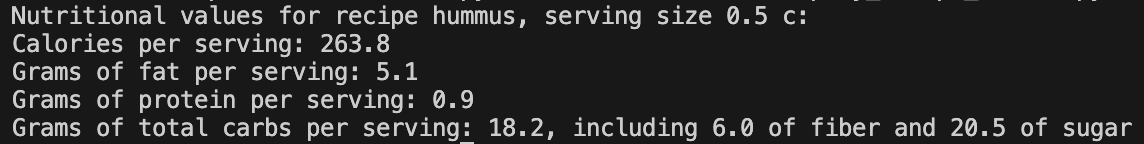
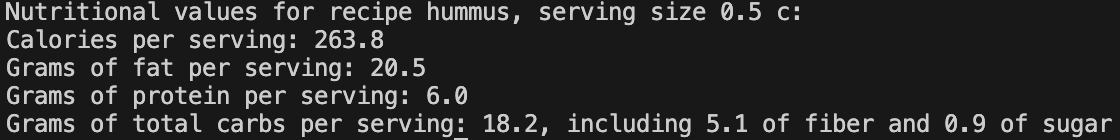
Bug fix by introducing dicts, should do this in dbcommons

diff --git a/src/forkwise/fork_db.py b/src/forkwise/fork_db.py
@@ -327,11 +327,21 @@ class ForkDB(DBConn):
         --------
         Recipe dataclass
         """
-        
-        recipe_tuple = self.execute_query("SELECT id, servings, servings_amt, servings_units FROM recipes WHERE name=%s;", (recipe_name,))
+
+        # TODO have execute_query in dbcommons return column names - return a dict rather than the raw tuple.
+        # column_names = [desc[0] for desc in cursor.description] # have not tested this
+        recipe_dict_keys = ['id','servings','servings_amt', 'servings_units']
+        recipe_cols = ", ".join(recipe_dict_keys)
+        recipe_tuple = self.execute_query(f"SELECT {recipe_cols} FROM recipes WHERE name=%s;", (recipe_name,))
         if len(recipe_tuple)==0:
-            self._logger.error(f"Recipe {recipe_name} does not exist")
-            raise ValueError(f"Recipe {recipe_name} does not exist")
+            msg = f"Recipe {recipe_name} does not exist"
+            self._logger.error(msg)
+            raise ValueError(msg)
+        elif len(recipe_tuple) > 1:
+            msg = f"Query to get recipe id from name returned multiple rows, something is wrong!"
+            self._logger.error(msg)
+            raise ValueError(msg)
+        recipe_dict = dict(zip(recipe_dict_keys,recipe_tuple[0]))
         
         # I eventually abandoned this approach but saving the COALESE for future reference:
         # query=f"""
@@ -369,12 +379,14 @@ class ForkDB(DBConn):
         # WHERE i.recipe_id=1;
 
         ingr_cols = [f.name for f in fields(PantryItem) if f.name not in ["props"]] + [f.name for f in fields(FoodProps)]
-        select_statements = ", ".join(f'SUM(i.ingredient_amt * (p.{c} / p.unitary_amt) * (iu.factor / pu.factor))  AS total_{c}' for c in ingr_cols if c not in {'name','unitary_amt','units','white_flour','animal'})
+        totals_dict_keys = [c for c in ingr_cols if c not in {'name','unitary_amt','units'}]
+        totals_dict_keys.append('count')
+        select_statements = ", ".join(f'SUM(i.ingredient_amt * (p.{c} / p.unitary_amt) * (iu.factor / pu.factor))  AS total_{c}' for c in totals_dict_keys if c not in {'white_flour','animal', 'count'})
 
         query=f"""
             SELECT {select_statements},
-                SUM(p.white_flour::int) AS white_flour,
                 SUM(p.animal::int) AS animal,
+                SUM(p.white_flour::int) AS white_flour,
                 COUNT(*)
             FROM pantry_items AS p
             INNER JOIN unit_conversions AS pu ON 
@@ -387,7 +399,13 @@ class ForkDB(DBConn):
             WHERE i.recipe_id=%s;
             """
 
-        totals = self.execute_query(query,(recipe_tuple[0][0],))
+        totals_tuple = self.execute_query(query,(recipe_dict['id'],))
+        if len(totals_tuple) != 1:
+            msg = f"Query to get recipe totals from recipe {recipe_name} returned multiple rows, something is wrong!"
+            self._logger.error(msg)
+            raise ValueError(msg)
+        totals_dict = dict(zip(totals_dict_keys,totals_tuple[0]))
+        
 
         # Check that all units matched for conversions - otherwise the return from COUNT won't match
         # the number of ingredients in the recipe: (note this should be checked on recipe load regardless)
@@ -398,27 +416,27 @@ class ForkDB(DBConn):
                 i.ingredient_id=p.id
             WHERE i.recipe_id=%s;
         """
-        correct_rows = self.execute_scalar(check_query,(recipe_tuple[0][0],))
+        correct_rows = self.execute_scalar(check_query,(recipe_dict['id'],))
 
-        if correct_rows != totals[0][-1]:
+        if correct_rows != totals_dict['count']:
             msg = "Unit conversions failed in recipe totaling - some rows were dropped"
             self._logger.error(msg)
             raise ValueError(msg)
 
-        ingr_props = FoodProps(cal=totals[0][0],
-                      fat_grams=totals[0][1],
-                      protein_grams=totals[0][2],
-                      fiber_grams=totals[0][3],
-                      sugar_grams= totals[0][4],
-                      carb_grams= totals[0][5],
-                      white_flour= bool(totals[0][6]),
-                      animal= bool(totals[0][7])
+        ingr_props = FoodProps(cal=totals_dict['cal'],
+                      fat_grams=totals_dict['fat_grams'],
+                      protein_grams=totals_dict['protein_grams'],
+                      fiber_grams=totals_dict['fiber_grams'],
+                      sugar_grams= totals_dict['sugar_grams'],
+                      carb_grams= totals_dict['carb_grams'],
+                      white_flour= bool(totals_dict['white_flour']),
+                      animal= bool(totals_dict['animal'])
                       )
 
         return Recipe(name=recipe_name, 
-                      servings = recipe_tuple[0][1],
-                      servings_amt=recipe_tuple[0][2],
-                      servings_units=recipe_tuple[0][3],
+                      servings = recipe_dict['servings'],
+                      servings_amt=recipe_dict['servings_amt'],
+                      servings_units=recipe_dict['servings_units'],
                       props = ingr_props
                       )
     

diff --git a/tests/test_fork_db.py b/tests/test_fork_db.py
@@ -166,7 +166,8 @@ class TestForkDB(unittest.TestCase):
         totals = self.conn.get_recipe_totals(recipe_name='hot cocoa')
 
         # Recipe totals are for however many servings the recipe makes, not per serving
-        self.assertEqual(totals.props.cal, 2*149 + (4/3)*12) # 2 c milk * 149 cal/1 c + 4 tsp cocoa * 1 Tbsp/3 tsp * 12 cal/1 Tbsp
+        self.assertEqual(round(totals.props.cal,2), round(2*149 + (4/3)*12,2)) # 2 c milk * 149 cal/1 c + 4 tsp cocoa * 1 Tbsp/3 tsp * 12 cal/1 Tbsp
+        self.assertEqual(round(totals.props.fat_grams,2), round(2*8 + (4/3)*1,2)) # 2 c milk * 8 fat g/1 c + 4 tsp cocoa * 1 Tbsp/3 tsp * 1 fat g/1 Tbsp
         self.assertTrue(totals.props.animal)
         self.assertEqual(totals.servings_amt, 1)
 

diff --git a/README.md b/README.md
@@ -105,7 +105,8 @@ To view nutritional content of a recipe logged in the database:
 ```
 python ./src/forkwise/display_recipe_totals.py <username> <user pw> <recipe name>
 ```
-For example, if `test_fork_db.py` has run but without the teardown method, and you run: (note you'll have to modify `config.yml` to point at `test_fork_db`)
+If you comment out `test_fork_db.py` teardown method so the testing db persists, and temporarily modify `config.yaml` to point at `test_fork_db`,
+and run:
 ```
 python ./src/forkwise/display_recipe_totals.py test_fork_user pw hummus
 ```
@@ -176,8 +177,9 @@ TODOs:
 - TESTING: Check final cal, etc in plots from testing db data
 - TESTING: Add CI
 - REFACTOR: Meal dataclass and data structures in display_meal_totals (Meals as dict with dates as keys(?), named tuple of (recipe, servings eaten); also refactor PropsPerDay)
-- REFACTOR: DAL to remove business logic; add recipe etc directly (not from staging), move csv to staging out but keep
+- REFACTOR: DAL to remove business logic; add recipe etc directly (not from staging), move csv to staging out in dbcommons but keep
 staging to db - in future GUI can add from staging to check for missing ingredients and add if necessary
+- REFACTOR: have execute_query in dbcommons return column names - return a dict rather than the raw tuple.
 - FEATURE: Add recipe as ingredient - need to do some refactoring in dbcommons and the refactor DAL item. Started on branch RecipeAsIngr
 - FEATURE: Edit pantry items, recipes, meals
 - FEATURE: For top ten pantry items by protein for animal=0 vs 1, calculate cal per g protein (and similar)
